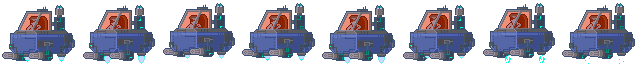
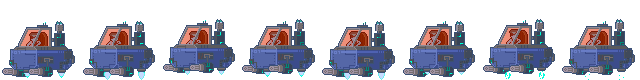
修复工程重车闪烁：Foozle机甲/斩击/无人机的帧宽并非等于帧高(80x64/64x32)，按真实帧宽重切并归一化为方形图集；新增内容高度元数据用于血条与按钮图标定位

diff --git a/js/data.js b/js/data.js
@@ -17,13 +17,14 @@ const UNITS={
   torch:{emoji:'🔥',name:'火把狂徒',cls:'inf',   gob:'torch', era:1,w:30,cost:45, hp:95, dmg:12,cd:0.7,range:28, speed:95,build:1.0},
   tnt:{emoji:'🧨',name:'TNT投手', cls:'ranged',gob:'tnt',   era:1,w:16,cost:110,hp:85, dmg:22,cd:1.8,range:180,speed:55,build:1.9,proj:'dynamite',splash:60},
   barrel:{emoji:'💣',name:'滚桶兵', cls:'bomb',  gob:'barrel',era:1,w:14,cost:90, hp:140,dmg:46,cd:1,  range:26, speed:85,build:1.6,splash:55},
-  /* ---- 攻城工程师：机械化军团（Foozle Sci-Fi Lab, CC0） ---- */
+  /* ---- 攻城工程师：机械化军团（Foozle Sci-Fi Lab, CC0） ----
+     mpx = 每源像素对应的屏幕像素；单位实际高度 = MECH_META[sheet].ch * mpx */
   militia:{emoji:'🤖',name:'改造兵',cls:'inf',   mech:'cyborg', mpx:1.75,era:1,w:28,cost:40, hp:90, dmg:10,cd:0.8,range:28, speed:66,build:1.0},
-  crossbow:{emoji:'🛸',name:'浮游炮',cls:'ranged',mech:'droid01',mpx:1.55,era:1,w:20,cost:95, hp:80, dmg:14,cd:1.4,range:200,speed:52,build:2.0,proj:'laser_a'},
-  ram:{emoji:'🚜',name:'工程重车',cls:'siege', mech:'mecha',  mpx:1.05,era:1,w:14,cost:150,hp:260,dmg:20,cd:1.2,range:34, speed:44,build:2.4},
-  militia2:{emoji:'⚙',name:'突击炮车',cls:'inf', mech:'droid02',mpx:1.5,era:2,w:28,cost:60, hp:150,dmg:17,cd:0.8,range:40, speed:66,build:1.2},
-  crossbow2:{emoji:'🔫',name:'重炮坦克',cls:'ranged',mech:'droid03',mpx:1.75,era:2,w:20,cost:145,hp:130,dmg:23,cd:1.3,range:210,speed:52,build:2.2,proj:'laser_b'},
-  ram2:{emoji:'🚜',name:'重型机甲',cls:'siege',mech:'mecha',  mpx:1.35,era:2,w:14,cost:230,hp:430,dmg:33,cd:1.2,range:34, speed:42,build:2.6},
+  crossbow:{emoji:'🛸',name:'浮游炮',cls:'ranged',mech:'droid01',mpx:1.3, era:1,w:20,cost:95, hp:80, dmg:14,cd:1.4,range:200,speed:52,build:2.0,proj:'laser_a'},
+  ram:{emoji:'🚜',name:'工程重车',cls:'siege', mech:'mecha',  mpx:1.1, era:1,w:14,cost:150,hp:260,dmg:20,cd:1.2,range:34, speed:44,build:2.4},
+  militia2:{emoji:'⚙',name:'突击炮车',cls:'inf', mech:'droid02',mpx:1.5, era:2,w:28,cost:60, hp:150,dmg:17,cd:0.8,range:40, speed:66,build:1.2},
+  crossbow2:{emoji:'🔫',name:'重炮坦克',cls:'ranged',mech:'droid03',mpx:2.0,era:2,w:20,cost:145,hp:130,dmg:23,cd:1.3,range:210,speed:52,build:2.2,proj:'laser_b'},
+  ram2:{emoji:'🚜',name:'重型机甲',cls:'siege',mech:'mecha',  mpx:1.38,era:2,w:14,cost:230,hp:430,dmg:33,cd:1.2,range:34, speed:42,build:2.6},
   /* ---- 建筑（速度为0的路上实体，占位阻路可被攻击） ---- */
   b_barricade:{emoji:'🚧',name:'路障', cls:'bldg',bk:'barricade',era:1,w:0,cost:120,hp:900,dmg:0, cd:9,  range:0,  speed:0,build:0},
   b_tower:{emoji:'🗼',name:'激光塔',cls:'bldg',bk:'tower',   era:1,w:0,cost:220,hp:450,dmg:14,cd:0.9,range:230,speed:0,build:0,proj:'laser_t',mz:[14,-78]},
@@ -41,6 +42,12 @@ const COUNTER={ /* 克制环：剑克枪/建筑 → 枪克盾/爆破/攻城 → 
   bomb:{bldg:1.8},
 };
 const CLS_NAME={inf:'步兵',spear:'枪兵',ranged:'远程',tank:'重甲',heal:'修士',bomb:'爆破',siege:'攻城',bldg:'建筑'};
+/* 机械素材几何：cell=方形图集格边长，ch=格内实际内容高度（源像素，内容贴格底对齐）。
+   由 build_mech_assets.py 输出的 assets/mech/meta.json 同步而来，改素材后需一并更新。 */
+const MECH_META={
+  cyborg:{cell:64,ch:32}, droid01:{cell:48,ch:39}, droid02:{cell:48,ch:35},
+  droid03:{cell:48,ch:19}, mecha:{cell:80,ch:61},  drone:{cell:64,ch:35},
+};
 /* ---------------- 指挥官 ---------------- */
 const COMMANDERS={
   marshal:{

diff --git a/js/ui.js b/js/ui.js
@@ -104,8 +104,13 @@ function buildUnitButtons(){
       const cc=b.querySelector('canvas').getContext('2d');
       cc.imageSmoothingEnabled=false;
       const cell=idle.height;
-      if(mIdle)cc.drawImage(idle,0,0,cell,cell,0,0,40,40);
-      else cc.drawImage(idle,cell*0.22,cell*0.16,cell*0.56,cell*0.64,0,0,40,40);
+      if(mIdle){
+        /* 图集格底部才是单位本体，直接整格缩放会画出一大片空白 */
+        const mm=MECH_META[st.mech], ch=mm?mm.ch:cell;
+        const sc=Math.min(40/cell,40/ch);
+        const dw=cell*sc, dh=ch*sc;
+        cc.drawImage(idle,0,cell-ch,cell,ch,(40-dw)/2,40-dh,dw,dh);
+      }else cc.drawImage(idle,cell*0.22,cell*0.16,cell*0.56,cell*0.64,0,0,40,40);
     }else{
       b.innerHTML='<span class="be">'+st.emoji+'</span><span class="bn">'+st.name+'</span><span class="bc">💰'+st.cost+'</span>';
     }

diff --git a/js/render.js b/js/render.js
@@ -226,9 +226,9 @@ function drawUnit(u,p){
     /* 血条跟随精灵实际高度：机械单位按 mpx 缩放，高度差异很大 */
     let by=45;
     if(st.mech){
-      const set=ASSETS.mech&&ASSETS.mech[u.side?'red':'blue'];
-      const si=set&&(set[st.mech+'_idle']||set[st.mech+'_run']);
-      if(si)by=Math.round(si.height*(st.mpx||1.3))-4;
+      /* 用内容高度而非图集格高，否则血条会飘到单位头顶很远的空白处 */
+      const mm=MECH_META[st.mech];
+      if(mm)by=Math.round(mm.ch*(st.mpx||1.3))+7;
     }
     ctx.fillStyle='rgba(0,0,0,.45)';
     ctx.fillRect(p.x-w/2-1,p.y-by,w+2,h+2);
